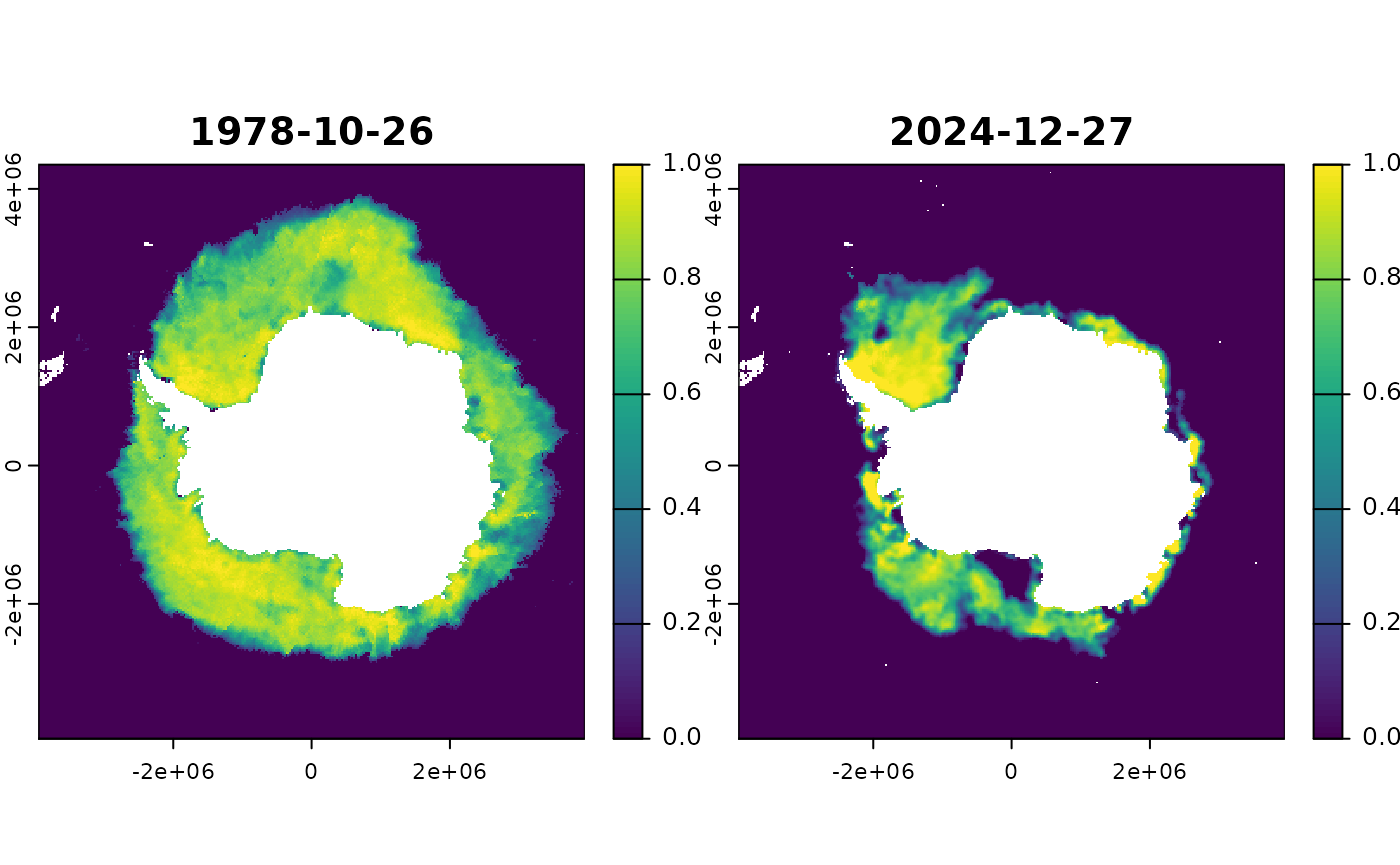
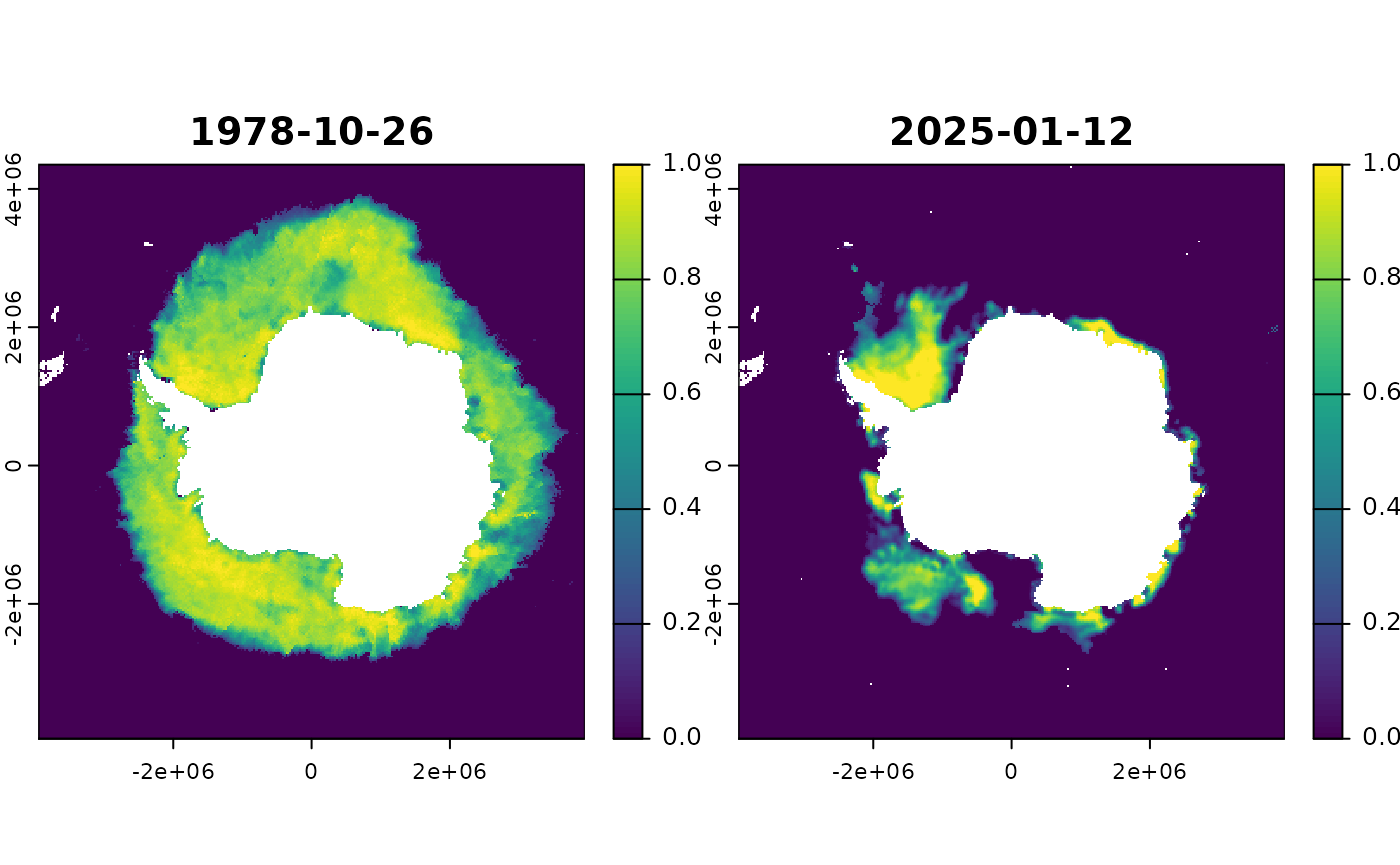
Deploying to gh-pages from @ mdsumner/sooty.watch@2831d0e059ea225b322cf47e6124b717abbada9e 🚀

diff --git a/articles/sooty-watch.html b/articles/sooty-watch.html
@@ -84,9 +84,9 @@
 <span><span class="co">#&gt; <span style="color: #949494;"># A tibble: 6 × 4</span></span></span>
 <span><span class="co">#&gt;   Dataset                        mindate             maxdate                 n</span></span>
 <span><span class="co">#&gt;   <span style="color: #949494; font-style: italic;">&lt;chr&gt;</span>                          <span style="color: #949494; font-style: italic;">&lt;dttm&gt;</span>              <span style="color: #949494; font-style: italic;">&lt;dttm&gt;</span>              <span style="color: #949494; font-style: italic;">&lt;int&gt;</span></span></span>
-<span><span class="co">#&gt; <span style="color: #BCBCBC;">1</span> NSIDC_SEAICE_PS_N25km          1978-10-26 <span style="color: #949494;">00:00:00</span> 2024-12-27 <span style="color: #949494;">00:00:00</span> <span style="text-decoration: underline;">16</span>859</span></span>
-<span><span class="co">#&gt; <span style="color: #BCBCBC;">2</span> NSIDC_SEAICE_PS_S25km          1978-10-26 <span style="color: #949494;">00:00:00</span> 2024-12-27 <span style="color: #949494;">00:00:00</span> <span style="text-decoration: underline;">16</span>859</span></span>
-<span><span class="co">#&gt; <span style="color: #BCBCBC;">3</span> antarctica-amsr2-asi-s3125-tif 2012-07-02 <span style="color: #949494;">00:00:00</span> 2024-12-27 <span style="color: #949494;">00:00:00</span>  <span style="text-decoration: underline;">4</span>555</span></span>
+<span><span class="co">#&gt; <span style="color: #BCBCBC;">1</span> NSIDC_SEAICE_PS_N25km          1978-10-26 <span style="color: #949494;">00:00:00</span> 2025-01-12 <span style="color: #949494;">00:00:00</span> <span style="text-decoration: underline;">16</span>875</span></span>
+<span><span class="co">#&gt; <span style="color: #BCBCBC;">2</span> NSIDC_SEAICE_PS_S25km          1978-10-26 <span style="color: #949494;">00:00:00</span> 2025-01-12 <span style="color: #949494;">00:00:00</span> <span style="text-decoration: underline;">16</span>875</span></span>
+<span><span class="co">#&gt; <span style="color: #BCBCBC;">3</span> antarctica-amsr2-asi-s3125-tif 2012-07-02 <span style="color: #949494;">00:00:00</span> 2025-01-12 <span style="color: #949494;">00:00:00</span>  <span style="text-decoration: underline;">4</span>567</span></span>
 <span><span class="co">#&gt; <span style="color: #BCBCBC;">4</span> oisst-avhrr-v02r01             1981-09-01 <span style="color: #949494;">00:00:00</span> 2024-12-27 <span style="color: #949494;">00:00:00</span> <span style="text-decoration: underline;">15</span>824</span></span>
 <span><span class="co">#&gt; <span style="color: #BCBCBC;">5</span> ghrsst-tif                     2002-06-01 <span style="color: #949494;">00:00:00</span> 2024-12-21 <span style="color: #949494;">00:00:00</span>   475</span></span>
 <span><span class="co">#&gt; <span style="color: #BCBCBC;">6</span> SEALEVEL_GLO_PHY_L4            1993-01-01 <span style="color: #949494;">00:00:00</span> 2024-11-25 <span style="color: #949494;">00:00:00</span> <span style="text-decoration: underline;">11</span>538</span></span>
@@ -95,10 +95,10 @@
 <span><span class="co">#&gt; <span style="color: #949494;"># A tibble: 6 × 2</span></span></span>
 <span><span class="co">#&gt;   Bucket                                                n</span></span>
 <span><span class="co">#&gt;   <span style="color: #949494; font-style: italic;">&lt;chr&gt;</span>                                             <span style="color: #949494; font-style: italic;">&lt;int&gt;</span></span></span>
-<span><span class="co">#&gt; <span style="color: #BCBCBC;">1</span> idea-10.5067-mpyg15waa4wx                         <span style="text-decoration: underline;">33</span>718</span></span>
+<span><span class="co">#&gt; <span style="color: #BCBCBC;">1</span> idea-10.5067-mpyg15waa4wx                         <span style="text-decoration: underline;">33</span>750</span></span>
 <span><span class="co">#&gt; <span style="color: #BCBCBC;">2</span> idea-10.7289-v5sq8xb5                             <span style="text-decoration: underline;">15</span>824</span></span>
 <span><span class="co">#&gt; <span style="color: #BCBCBC;">3</span> idea-sealevel-glo-phy-l4-rep-observations-008-047 <span style="text-decoration: underline;">11</span>208</span></span>
-<span><span class="co">#&gt; <span style="color: #BCBCBC;">4</span> idea-amsr2-asi-s3125                               <span style="text-decoration: underline;">4</span>555</span></span>
+<span><span class="co">#&gt; <span style="color: #BCBCBC;">4</span> idea-amsr2-asi-s3125                               <span style="text-decoration: underline;">4</span>567</span></span>
 <span><span class="co">#&gt; <span style="color: #BCBCBC;">5</span> idea-ghrsst                                         475</span></span>
 <span><span class="co">#&gt; <span style="color: #BCBCBC;">6</span> idea-sealevel-glo-phy-l4-nrt-008-046                330</span></span></code></pre></div>
 <p>For each dataset, let’s get the first and last and plot.</p>

diff --git a/reference/watch.html b/reference/watch.html
@@ -72,9 +72,9 @@
 <span class="r-out co"><span class="r-pr">#&gt;</span> <span style="color: #949494;"># A tibble: 6 × 4</span></span>
 <span class="r-out co"><span class="r-pr">#&gt;</span>   Dataset                        mindate             maxdate                 n</span>
 <span class="r-out co"><span class="r-pr">#&gt;</span>   <span style="color: #949494; font-style: italic;">&lt;chr&gt;</span>                          <span style="color: #949494; font-style: italic;">&lt;dttm&gt;</span>              <span style="color: #949494; font-style: italic;">&lt;dttm&gt;</span>              <span style="color: #949494; font-style: italic;">&lt;int&gt;</span></span>
-<span class="r-out co"><span class="r-pr">#&gt;</span> <span style="color: #BCBCBC;">1</span> NSIDC_SEAICE_PS_N25km          1978-10-26 <span style="color: #949494;">00:00:00</span> 2024-12-27 <span style="color: #949494;">00:00:00</span> <span style="text-decoration: underline;">16</span>859</span>
-<span class="r-out co"><span class="r-pr">#&gt;</span> <span style="color: #BCBCBC;">2</span> NSIDC_SEAICE_PS_S25km          1978-10-26 <span style="color: #949494;">00:00:00</span> 2024-12-27 <span style="color: #949494;">00:00:00</span> <span style="text-decoration: underline;">16</span>859</span>
-<span class="r-out co"><span class="r-pr">#&gt;</span> <span style="color: #BCBCBC;">3</span> antarctica-amsr2-asi-s3125-tif 2012-07-02 <span style="color: #949494;">00:00:00</span> 2024-12-27 <span style="color: #949494;">00:00:00</span>  <span style="text-decoration: underline;">4</span>555</span>
+<span class="r-out co"><span class="r-pr">#&gt;</span> <span style="color: #BCBCBC;">1</span> NSIDC_SEAICE_PS_N25km          1978-10-26 <span style="color: #949494;">00:00:00</span> 2025-01-12 <span style="color: #949494;">00:00:00</span> <span style="text-decoration: underline;">16</span>875</span>
+<span class="r-out co"><span class="r-pr">#&gt;</span> <span style="color: #BCBCBC;">2</span> NSIDC_SEAICE_PS_S25km          1978-10-26 <span style="color: #949494;">00:00:00</span> 2025-01-12 <span style="color: #949494;">00:00:00</span> <span style="text-decoration: underline;">16</span>875</span>
+<span class="r-out co"><span class="r-pr">#&gt;</span> <span style="color: #BCBCBC;">3</span> antarctica-amsr2-asi-s3125-tif 2012-07-02 <span style="color: #949494;">00:00:00</span> 2025-01-12 <span style="color: #949494;">00:00:00</span>  <span style="text-decoration: underline;">4</span>567</span>
 <span class="r-out co"><span class="r-pr">#&gt;</span> <span style="color: #BCBCBC;">4</span> oisst-avhrr-v02r01             1981-09-01 <span style="color: #949494;">00:00:00</span> 2024-12-27 <span style="color: #949494;">00:00:00</span> <span style="text-decoration: underline;">15</span>824</span>
 <span class="r-out co"><span class="r-pr">#&gt;</span> <span style="color: #BCBCBC;">5</span> ghrsst-tif                     2002-06-01 <span style="color: #949494;">00:00:00</span> 2024-12-21 <span style="color: #949494;">00:00:00</span>   475</span>
 <span class="r-out co"><span class="r-pr">#&gt;</span> <span style="color: #BCBCBC;">6</span> SEALEVEL_GLO_PHY_L4            1993-01-01 <span style="color: #949494;">00:00:00</span> 2024-11-25 <span style="color: #949494;">00:00:00</span> <span style="text-decoration: underline;">11</span>538</span>
